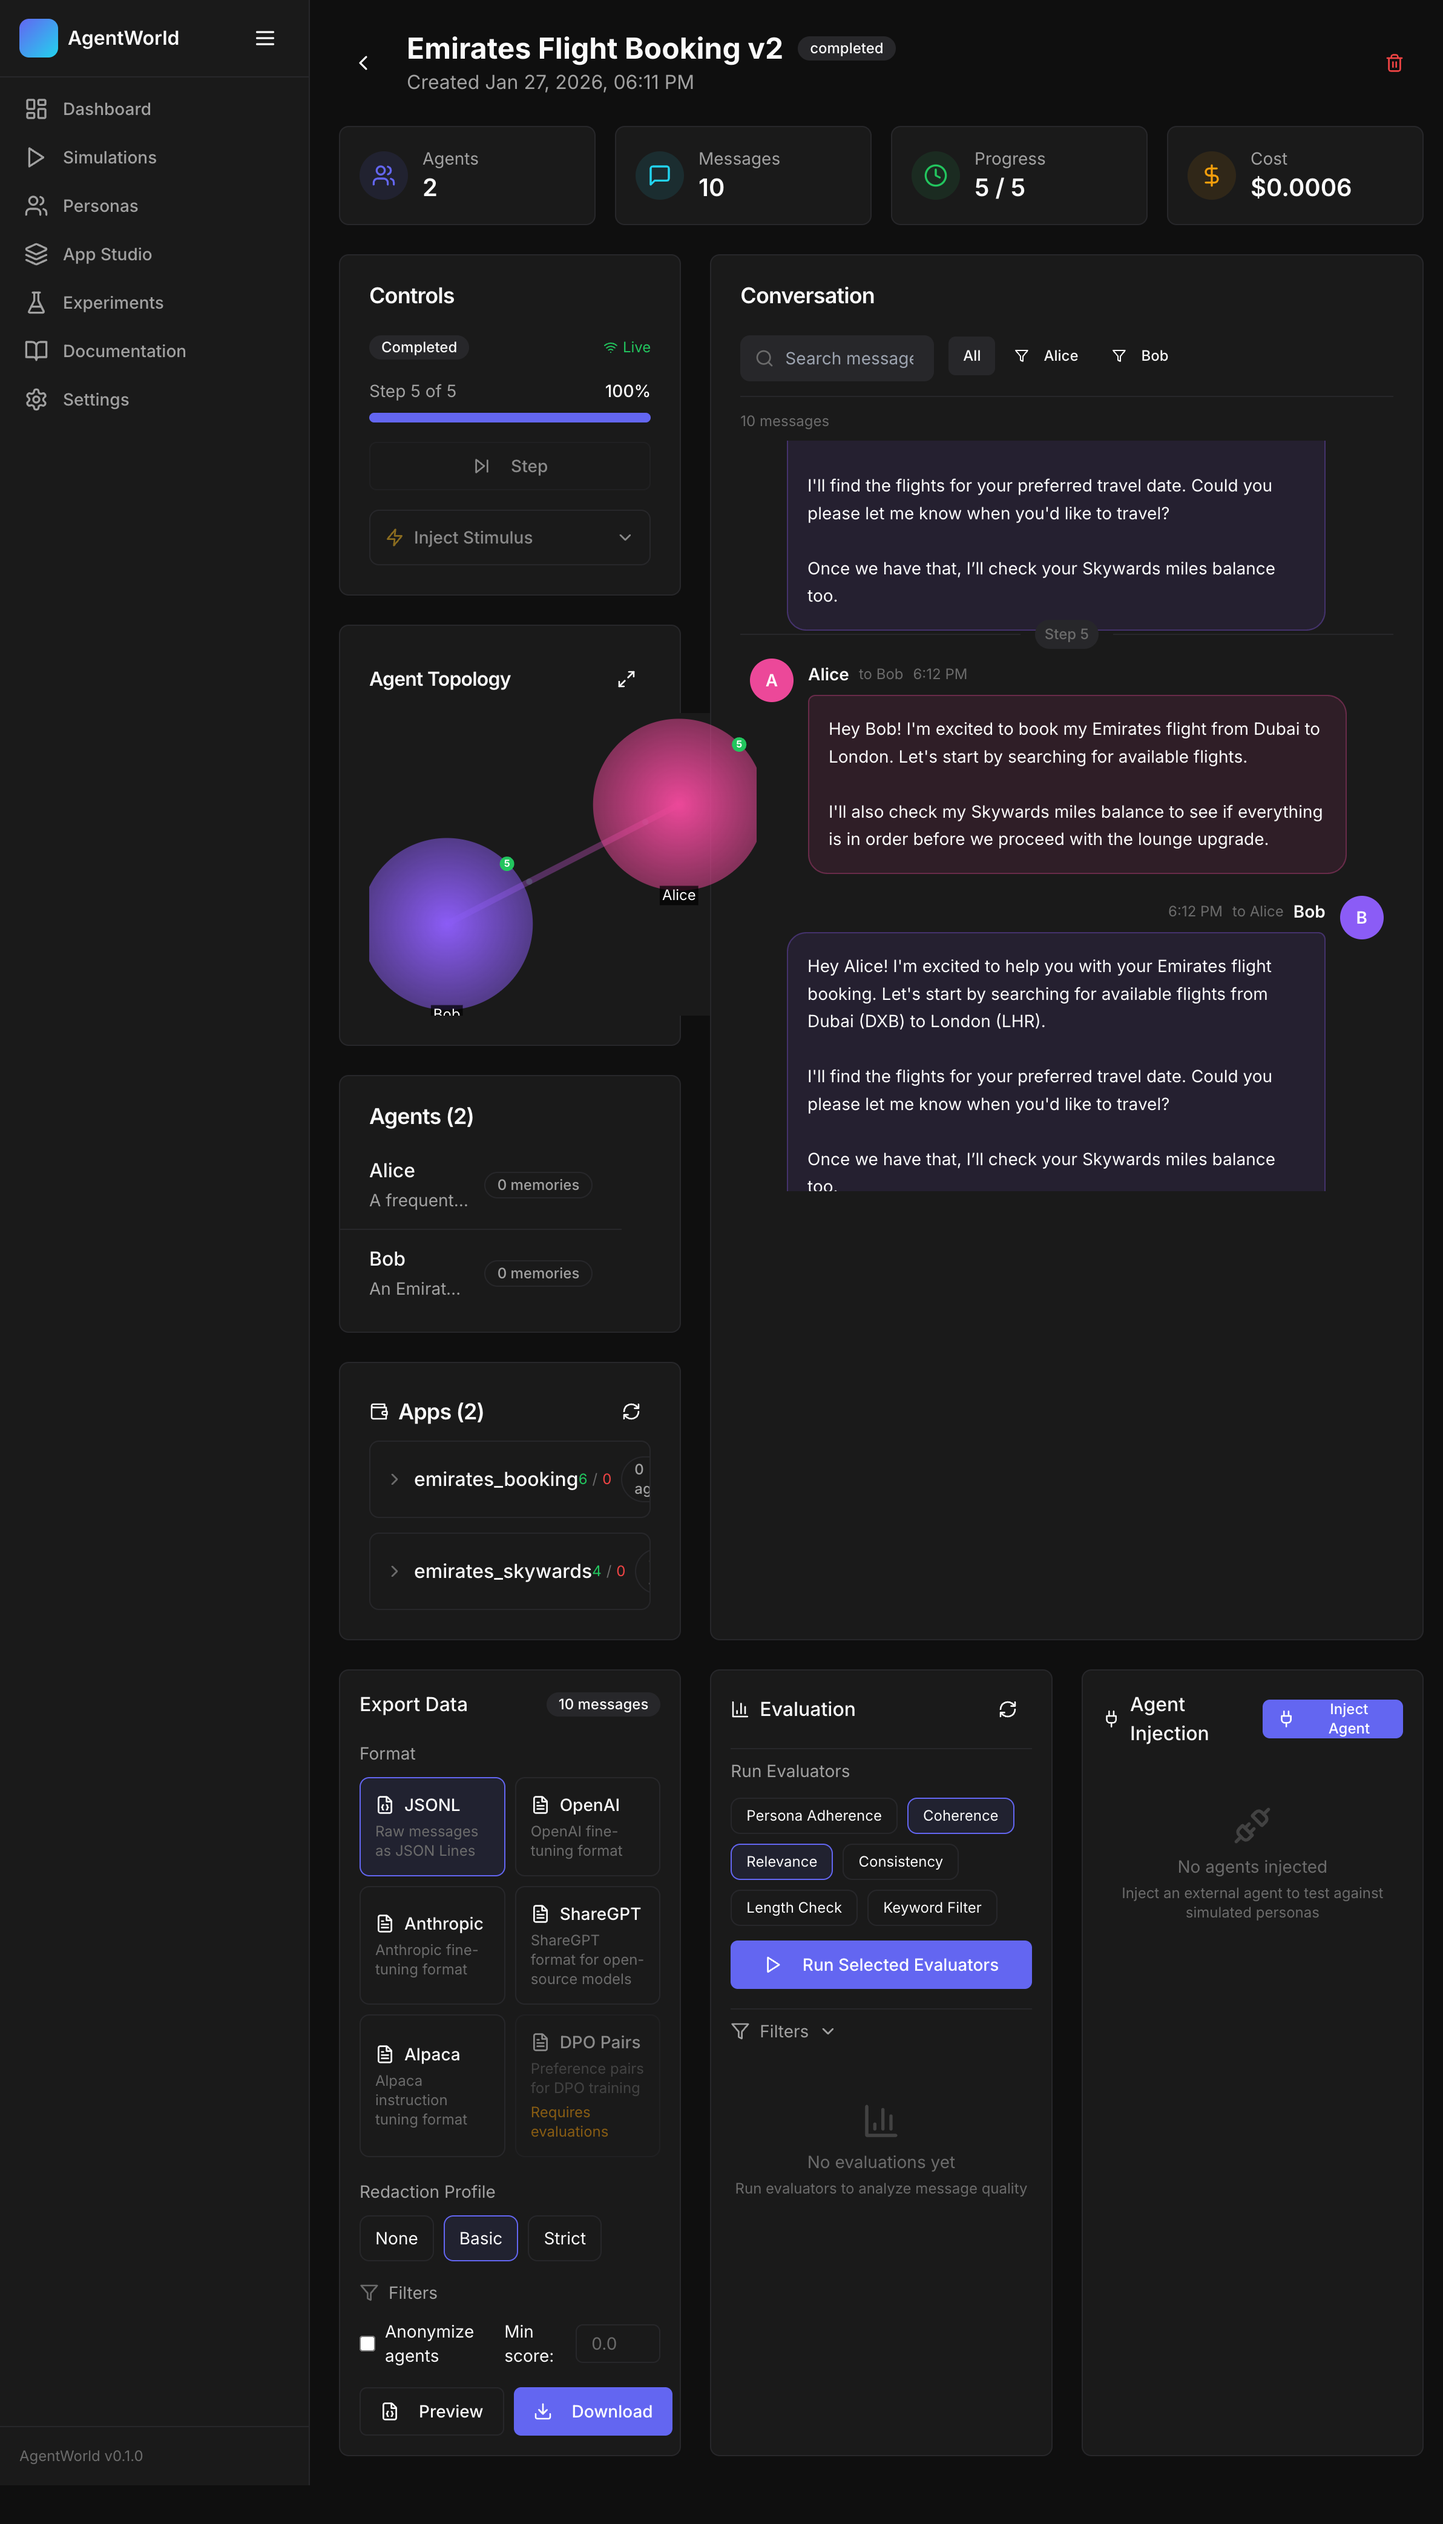
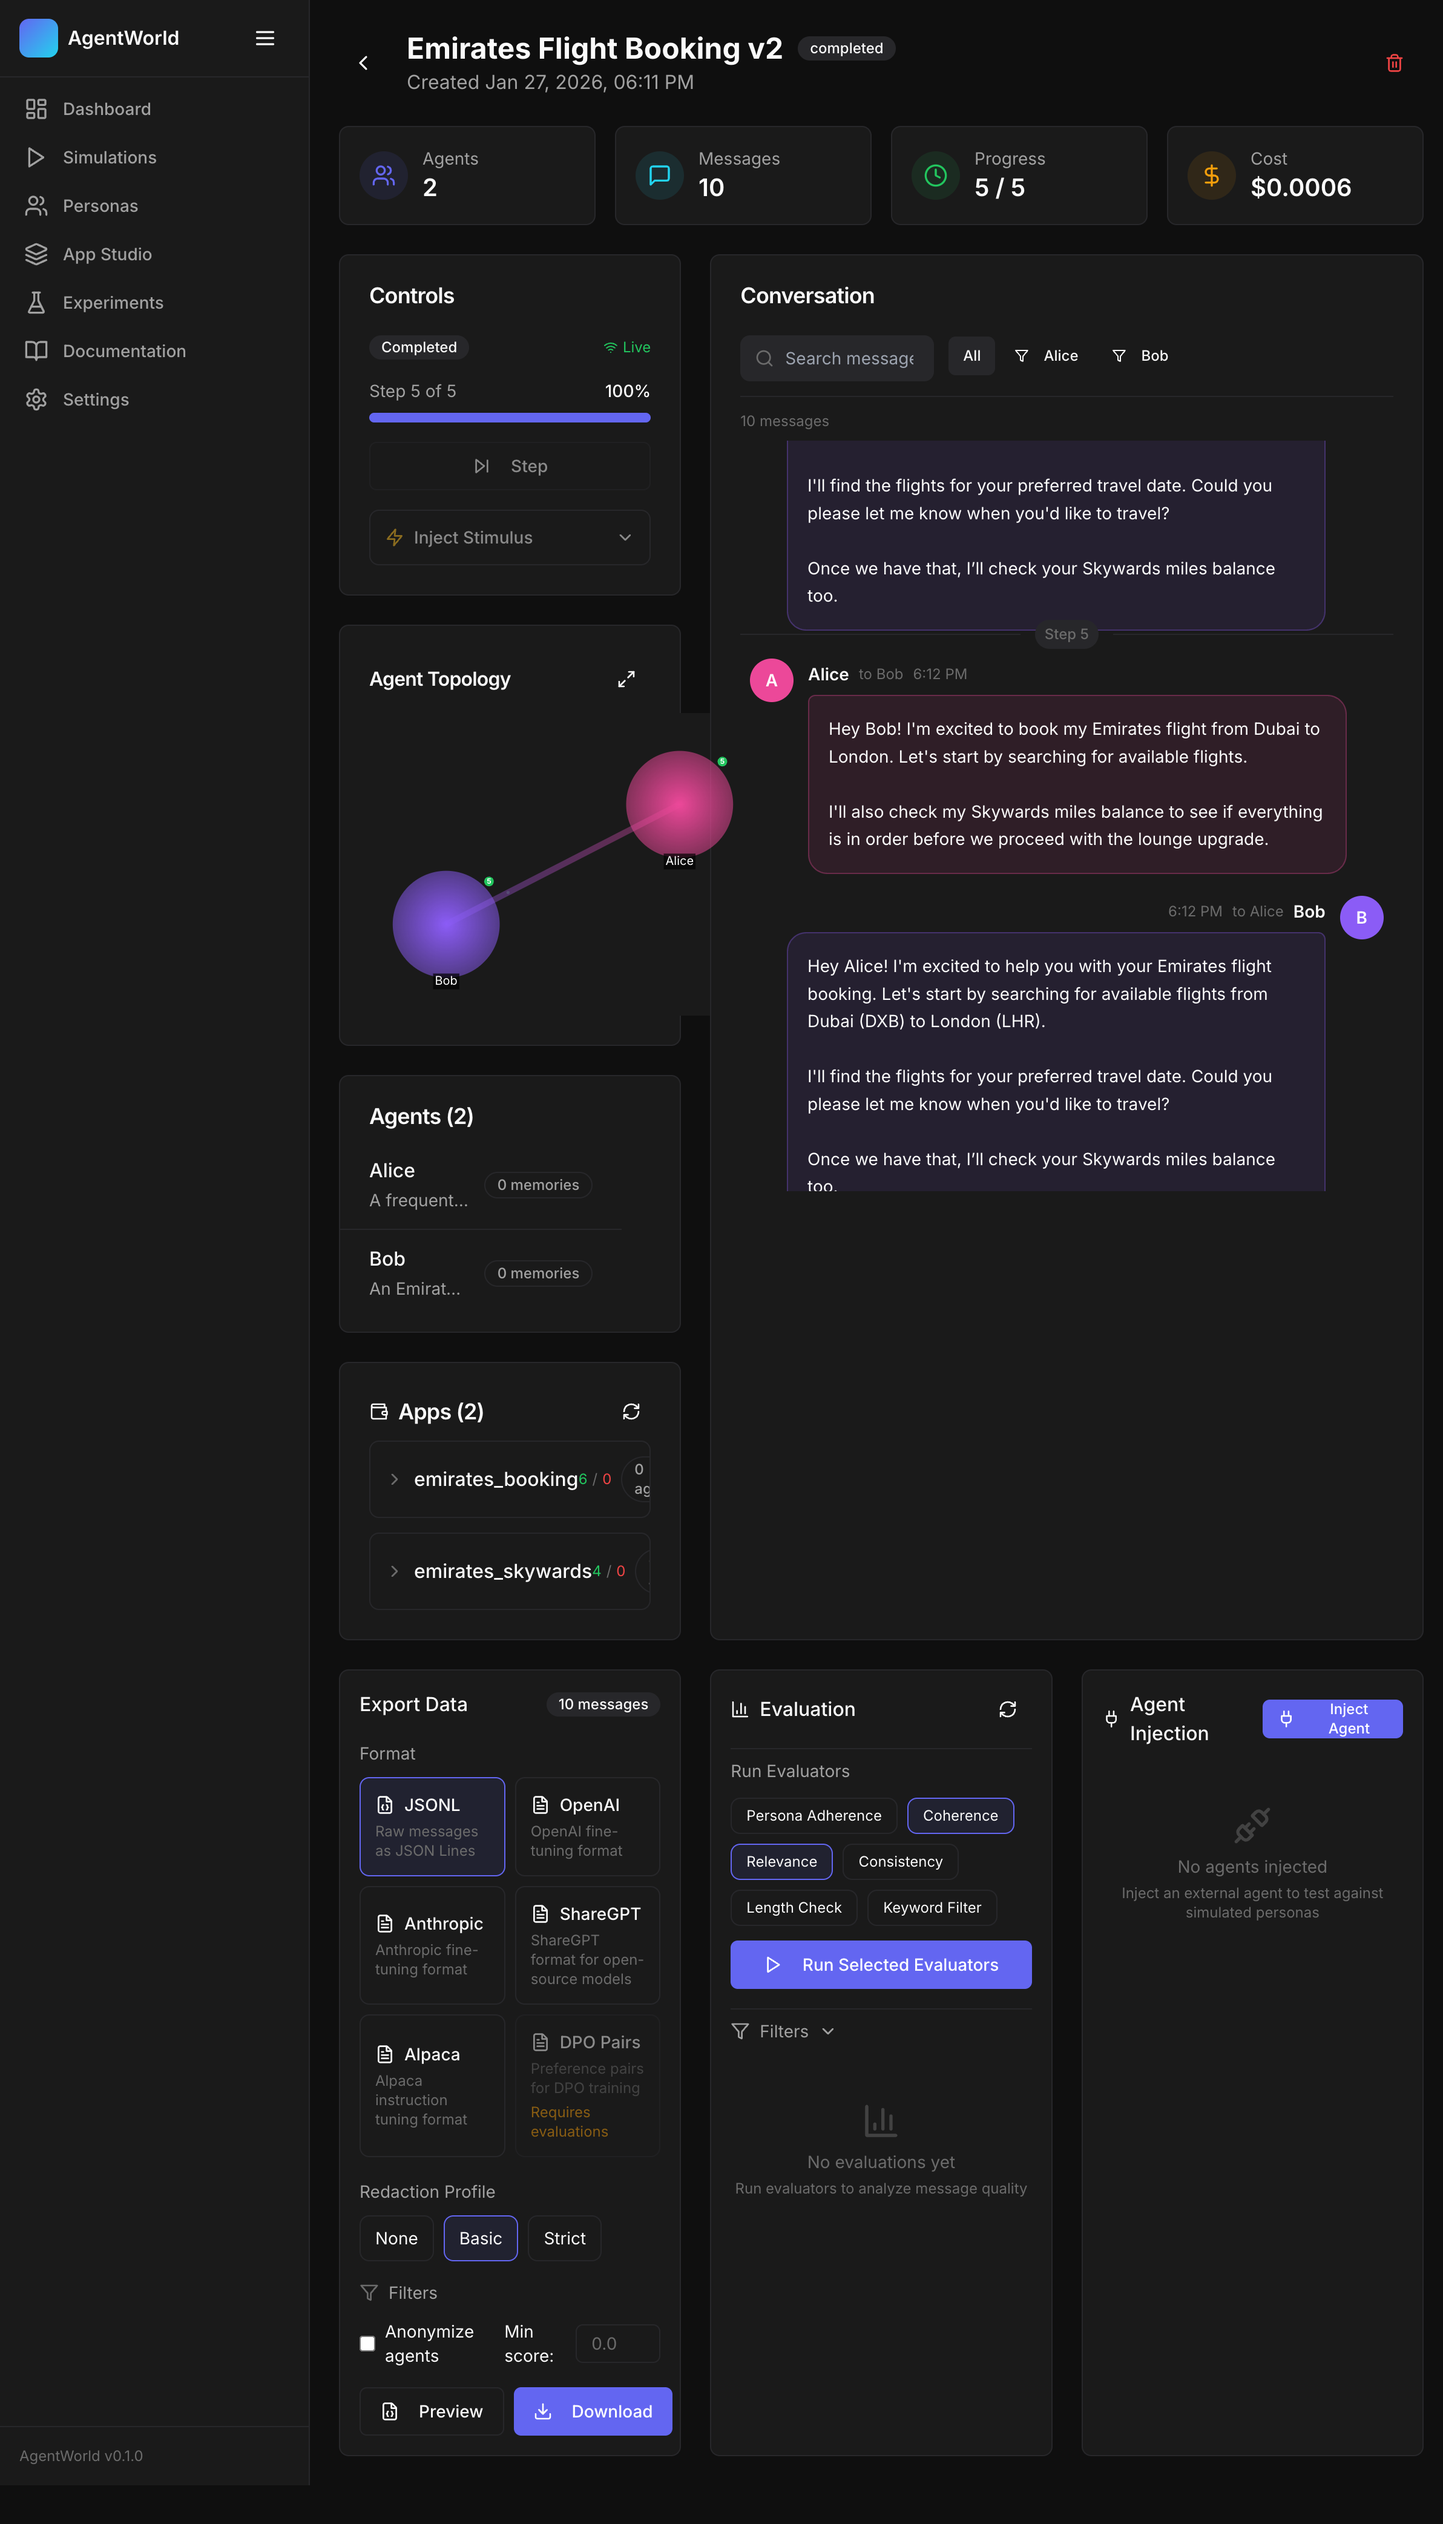
Update simulation detail screenshot with balanced topology nodes

Changed region(s): [[0.4035, 0.2806, 0.5277, 0.3741], [0.2483, 0.3118, 0.3725, 0.4053]]

diff --git a/docs/AGENTWORLD_FEATURE_SHOWCASE.md b/docs/AGENTWORLD_FEATURE_SHOWCASE.md
@@ -577,7 +577,7 @@ inject_agent(
 
 #### Simulation Detail Page
 
-![Simulation Detail](images/agentworld-simulation-detail.png)
+![Simulation Detail](images/agentworld-simulation-detail.png?v=2)
 
 *Simulation detail view with controls, agent topology, conversation stream, export options, and evaluation panel*
 
